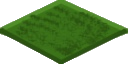
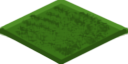
added new grass textures

diff --git a/Test_Game/Level.cpp b/Test_Game/Level.cpp
@@ -54,7 +54,7 @@ void Level::Init(const std::vector<std::vector<unsigned>> &tileData, unsigned lv
 				Sprite *sprite = entity.AddComponent<Sprite>(COMPONENT_SPRITE);
 
 				trans->setPosition(Vec2(unitWidth * x + offset, 32 * y));
-				trans->setScale(Vec2(unitWidth, unitHeight));
+				trans->setScale(Vec2(unitWidth, unitHeight / 2));
 				sprite->mTexture = ResourceManager::GetTexture("block_solid");
 				sprite->mColor = Vec3(0.8f, 0.8f, 0.7f);
 				Bricks.push_back(entity);

diff --git a/Test_Game/Game.cpp b/Test_Game/Game.cpp
@@ -30,7 +30,7 @@ void Game::Init()
 
 	ResourceManager::LoadTexture("smile", "../res/smile.png", true);
 	ResourceManager::LoadTexture("block", "../res/oneTile.png", true);
-	ResourceManager::LoadTexture("block_solid", "../res/oneTile.png", true);
+	ResourceManager::LoadTexture("block_solid", "../res/grass2.png", true);
 	ResourceManager::LoadTexture("background", "../res/background.jpg", false);
 
 	level.Load("../levels/level_one.lvl", 800, 300);
